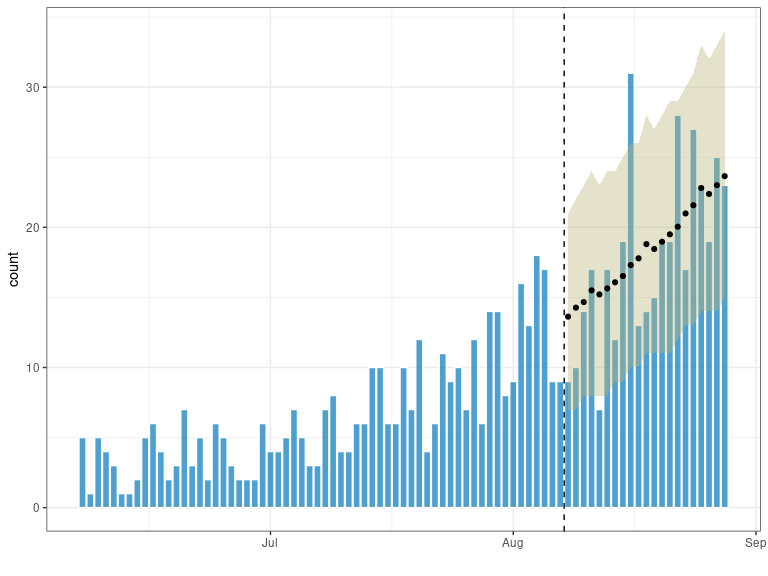
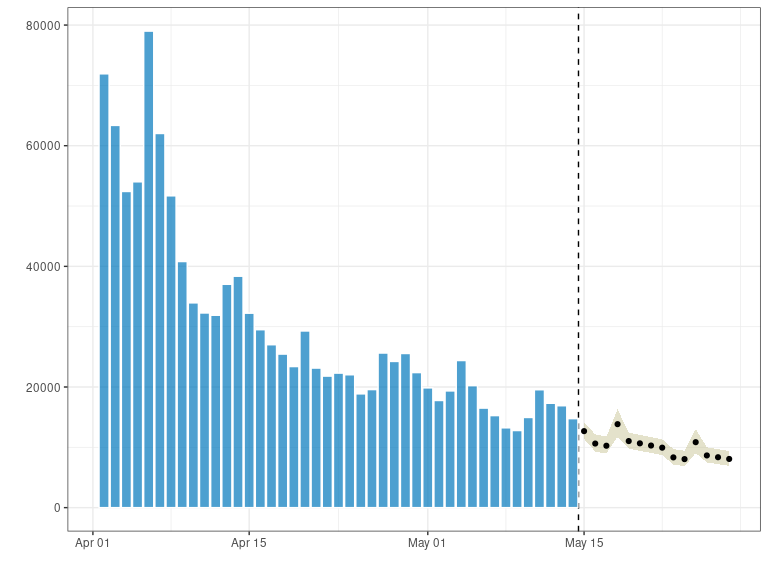
add confidence intervals

diff --git a/README.md b/README.md
@@ -52,13 +52,6 @@ interface on which other packages can be developed
 ``` r
 library(trendbreaker)  # for data
 library(trending)      # for trends
-#> 
-#> Attaching package: 'trending'
-#> The following objects are masked from 'package:trendbreaker':
-#> 
-#>     brms_model, evaluate_aic, evaluate_models, evaluate_resampling,
-#>     get_family, get_formula, get_model, get_response, glm_model,
-#>     glm_nb_model, lm_model, select_model
 library(dplyr, warn.conflicts = FALSE)  # for data manipulation
 
 # load data
@@ -85,22 +78,41 @@ fitting_data <- dat[[2]]
 pred_data <- select(dat[[1]], date, day , weekday)
 
 fitted_model <- fit(model, fitting_data)
+
+# prediction intervals
 pred <- predict(fitted_model, pred_data)
 glimpse(pred)
 #> Rows: 14
 #> Columns: 6
-#> $ date    <date> 2020-05-15, 2020-05-16, 2020-05-17, 2020-05-18, 2020-05-19, …
-#> $ day     <int> 58, 59, 60, 61, 62, 63, 64, 65, 66, 67, 68, 69, 70, 71
-#> $ weekday <fct> rest_of_week, weekend, weekend, monday, rest_of_week, rest_of…
-#> $ pred    <dbl> 12682.369, 10624.994, 10261.995, 13839.651, 11036.030, 10658.…
-#> $ lower   <dbl> 9027, 7562, 7303, 9852, 7855, 7586, 7327, 7076, 5927, 5725, 7…
-#> $ upper   <dbl> 16948, 14200, 13715, 18494, 14749, 14245, 13759, 13289, 11134…
-
-# plot
+#> $ date       <date> 2020-05-15, 2020-05-16, 2020-05-17, 2020-05-18, 2020-05-1…
+#> $ day        <int> 58, 59, 60, 61, 62, 63, 64, 65, 66, 67, 68, 69, 70, 71
+#> $ weekday    <fct> rest_of_week, weekend, weekend, monday, rest_of_week, rest…
+#> $ pred       <dbl> 12682.369, 10624.994, 10261.995, 13839.651, 11036.030, 106…
+#> $ `lower-pi` <dbl> 9027, 7562, 7303, 9852, 7855, 7586, 7327, 7076, 5927, 5725…
+#> $ `upper-pi` <dbl> 16948, 14200, 13715, 18494, 14749, 14245, 13759, 13289, 11…
 plot(pred, "date", fitted_data = fitting_data, fitted_y = "count")
 ```
 
 <img src="man/figures/README-unnamed-chunk-1-1.png" style="display: block; margin: auto;" />
+
+``` r
+
+# prediction intervals
+conf <- confidence(fitted_model, pred_data)
+glimpse(conf)
+#> Rows: 14
+#> Columns: 6
+#> $ date       <date> 2020-05-15, 2020-05-16, 2020-05-17, 2020-05-18, 2020-05-1…
+#> $ day        <int> 58, 59, 60, 61, 62, 63, 64, 65, 66, 67, 68, 69, 70, 71
+#> $ weekday    <fct> rest_of_week, weekend, weekend, monday, rest_of_week, rest…
+#> $ pred       <dbl> 12682.369, 10624.994, 10261.995, 13839.651, 11036.030, 106…
+#> $ `lower-ci` <dbl> 11389.656, 9298.919, 8955.498, 11748.777, 9782.324, 9416.3…
+#> $ `upper-ci` <dbl> 14121.804, 12140.175, 11759.094, 16302.627, 12450.410, 120…
+plot(conf, date_axis = "date", y = "pred",
+     fitted_data = fitting_data, fitted_y = "count")
+```
+
+<img src="man/figures/README-unnamed-chunk-1-2.png" style="display: block; margin: auto;" />
 
 ### Model selection
 
@@ -146,7 +158,7 @@ auto_select$leaderboard
 #> # A tibble: 5 x 4
 #>   model          huber_loss   mae  rmse
 #>   <chr>               <dbl> <dbl> <dbl>
-#> 1 brms_complex         18.0  18.5  18.5
+#> 1 brms_complex         17.8  18.3  18.3
 #> 2 glm_poisson          21.2  21.7  21.7
 #> 3 negbin_complex       22.8  23.3  23.3
 #> 4 lm_complex           26.2  26.7  26.7
